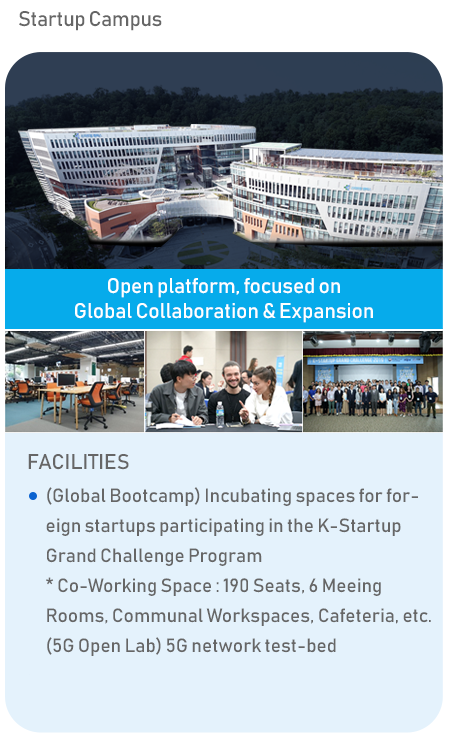
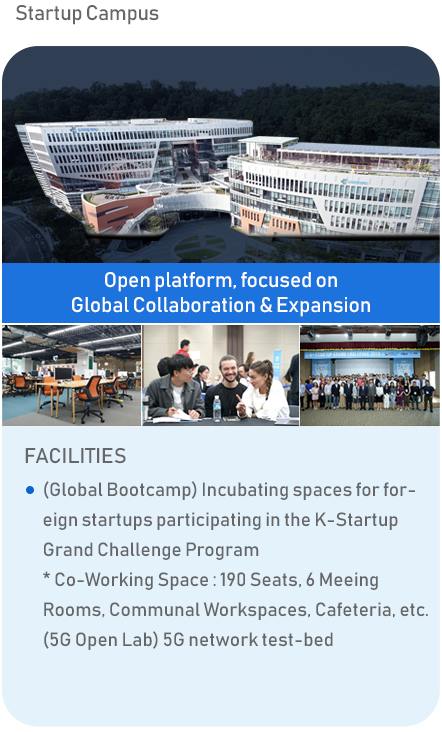
modify2

diff --git a/s2_5.html b/s2_5.html
@@ -313,14 +313,23 @@
                                     To secure national competitiveness by fostering innovative startups which
                                     correspond to the 4th Industrial Revolution
                                 </p>
+
+                                <ul class="dot_wrap">
+                                    <li >
+                                        <span>
+                                            Creative Economy
+                                        </span>
+                                    </li>
+                                </ul>
+
                                 <p>
                                     <div class="vs_box">
                                         <div class="gccei_vision_mission">
                                             <img src="./images/gccei_img.png">
                                         </div>
                                     </div>
-
                                 </p>
+
                                 <ul class="dot_wrap">
                                     <li >
                                         <span>
@@ -379,8 +388,11 @@
                                     </li>
                                 </ul>
 
+                                <div class="gccei_img3"><img src="./images/gccei_img3.png">
+                                </div>
                                 <h3>GCCEI, Gyeonggi Center for Creative Economy & Innovation
                                 </h3>
+
                                 <p >
                                     Locating in Pangyo of Gyeonggi Province where the biggest economy in south
                                     korea, GCCEI is
@@ -417,9 +429,23 @@
                                 </p>
 
                                 <h3>Organization Overview</h3>
+                                <p>
+                                    <div >
+                                        <img src="./images/gccei_inovation_img.png">
+                                    </div>
 
-                                <div><img src="./images/gccei_img3.png">
-                                </div>
+                                </p>
+
+                                <p>
+                                    <div class="metrix_box">
+                                        <div class="m_box">
+                                            <img src="./images/gccei_metrics.png">
+                                        </div>
+                                        <div class="m_box">
+                                            <img src="./images/gccei_metrics2.png">
+                                        </div>
+                                    </div>
+                                </p>
 
                                 <h3>
                                     Startup Incubation withing Pangyo Techno Valley
@@ -440,8 +466,20 @@
                                 <h3>
                                     Acceleration Programs
                                 </h3>
+                                <div class="acceleration">
+                                    <div class="acceleration_box">
+                                        <img src="./images/seed.png">
+                                    </div>
+                                    <div class="acceleration_box">
+                                        <img src="./images/scaleup.png">
+                                    </div>
+                                    <div class="acceleration_box">
+                                        <img src="./images/globalization.png">
+                                    </div>
+
+                                </div>
                                 <div class="gccei_box">
-                                    <img src="./images/gccei_img7.png">
+                                    <img src="./images/startup_zone.png">
                                 </div>
 
                                 <h3>

diff --git a/css/style.css b/css/style.css
@@ -2028,25 +2028,64 @@ div.refRoomDoc table tbody tr:nth-child(3) td {
 
 .gccei_techno_valley {
     display: flex;
-    flex-wrap:wrap;
+    /* flex-wrap:wrap; */
 }
 
 .gccei_box {
-    /* flex:1; */
     padding: 10px;
-
 }
 
-.gccei_techno_valley img {
+.gccei_box img {
     
-    object-fit: cover;
+    /* object-fit: cover;
     max-width: 410px;
+    height: auto; */
+
+    flex:1;
+    max-width: 100%;
+    height: auto;
+}
+
+.gccei_vision_mission img {
+    max-width: 100%;
+}
+
+
+
+.acceleration {
+    display: flex;
+    /* flex-wrap:wrap; */
+}
+
+.acceleration_box {
+    padding: 10px;
+}
+
+.acceleration_box img {
+    flex:1;
+    max-width: 100%;
     height: auto;
 }
 
 .gccei_leadership {
     display: flex;
     flex-wrap:wrap;
+}
+
+.metrix_box {
+    display: flex;
+    /* flex-wrap: wrap; */
+}
+
+.m_box img {
+    flex:1;
+    max-width: 100%;
+    height: auto;
+
+}
+
+.gccei_box img {
+    max-width: 100%;
 }
 
 .leadership_box {
@@ -2060,6 +2099,16 @@ div.refRoomDoc table tbody tr:nth-child(3) td {
     object-fit: cover;
     max-width: 300px;
     height: auto;
+}
+
+.gccei_img3 img {
+    float: right;
+    padding: 0 0 25px 25px;
+}
+
+.overview {
+    display: block;
+    text-align: justify;
 }
 
 

diff --git a/css/responsive.css b/css/responsive.css
@@ -423,6 +423,19 @@
         top: 28%;
     }
 
+    .metrix_box {
+        flex-wrap: wrap;
+    }
+
+    .gccei_techno_valley {
+        flex-wrap: wrap;
+
+    }
+
+    .acceleration {
+        flex-wrap: wrap;
+    }
+
 }
 
 @media (max-width: 750px) {
